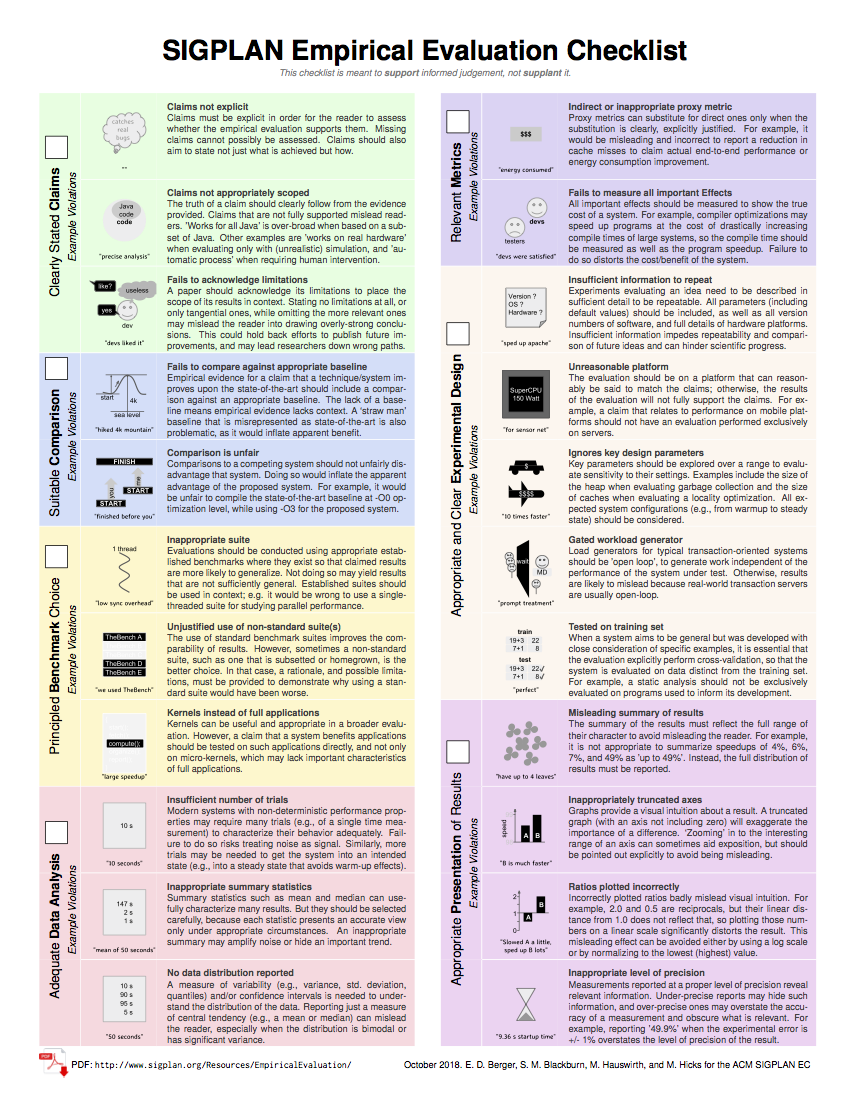
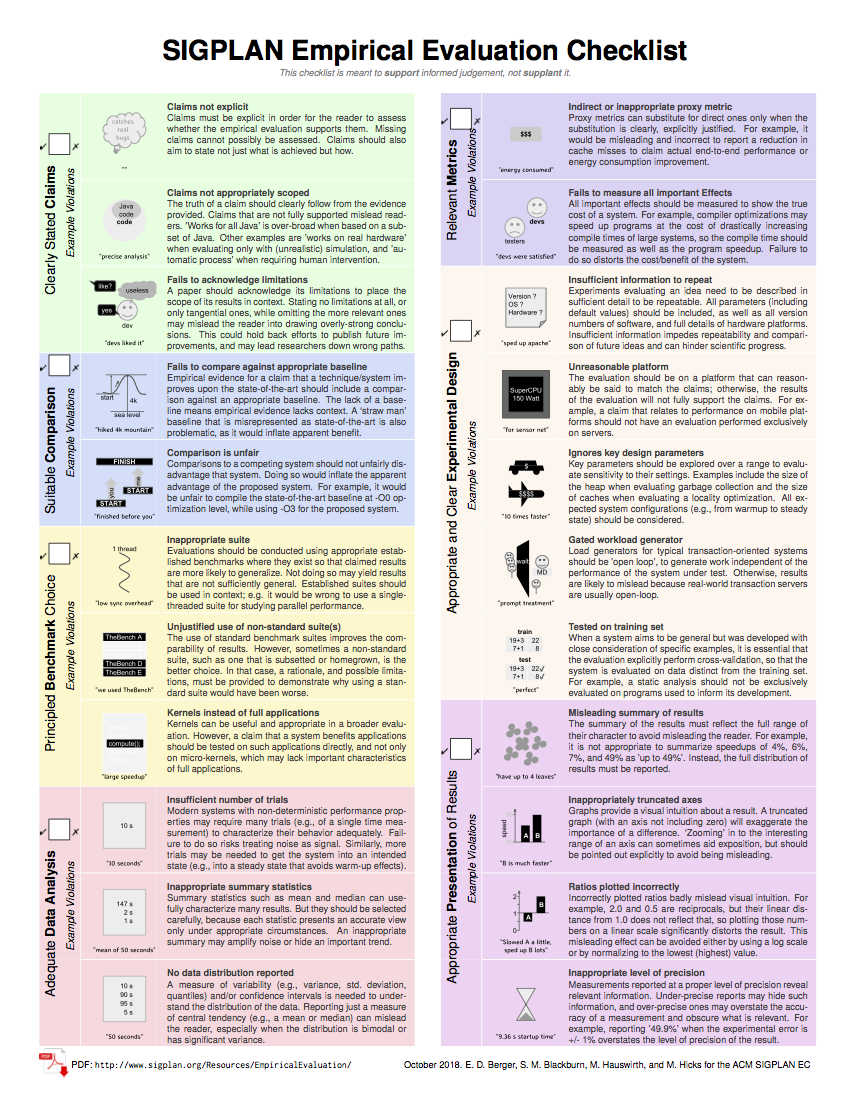
Add checkmark and cross

diff --git a/checklist/genchecklist.py b/checklist/genchecklist.py
@@ -45,15 +45,17 @@ ltxprolog = r"""
 \usepackage{flushend}
 \usepackage{hyperref}
 \hypersetup{colorlinks=true,urlcolor=cyan}
+\usepackage{bbding} % checkmark \CheckmarkBold cross \XSolidBrush
+\usepackage{rotating}
 
 \newlength{\cellpad}\setlength{\cellpad}{2.1ex}
 \newlength{\rowheight}\setlength{\rowheight}{2.1cm}
 \newlength{\figwidth}\setlength{\figwidth}{1.8cm}
 \newlength{\descwidth}\setlength{\descwidth}{.31\textwidth}
 
-\newcommand{\checkbox}{{\hspace*{.3ex}\setlength{\fboxrule}{0.125pt}\raisebox{-.6ex}{\fcolorbox{black}{white}{\rule{0pt}{2ex}\hspace{2ex}}}}}
+\newcommand{\checkbox}{\hspace{.5ex}\begin{turn}{-90}{\hspace*{-1.15em}\setlength{\fboxrule}{0.125pt}\raisebox{-2ex}{{\tiny\CheckmarkBold}\,\fcolorbox{black}{white}{\rule{0pt}{1.8ex}\hspace{1.8ex}}\,{\tiny\XSolidBrush}}}\end{turn}}
 \newlength{\vcbsize}
-\newcommand{\verticalwithcheckbox}[2]{\setlength{\vcbsize}{\dimexpr(\rowheight*#1)\relax}\multirow{-#1}{*}{\hspace*{-.5ex}\smash{\rotatebox[origin=l]{90}{\hspace*{-1ex}\mbox{\parbox{\vcbsize}{\centering \normalsize #2\hspace*{1ex}\checkbox \\{\raisebox{-0ex}{\footnotesize \emph{Example Violations}}}}}}}}}
+\newcommand{\verticalwithcheckbox}[2]{\setlength{\vcbsize}{\dimexpr(\rowheight*#1)\relax}\multirow{-#1}{*}{\hspace*{-.5ex}\smash{\rotatebox[origin=l]{90}{\hspace*{-.5ex}\mbox{\parbox{\vcbsize}{\centering \normalsize #2\hspace*{1ex}\checkbox \\\vspace*{-2ex}{\footnotesize \emph{Example Violations}}}}}}}}
 
 \begin{document}
 \pagenumbering{gobble}
